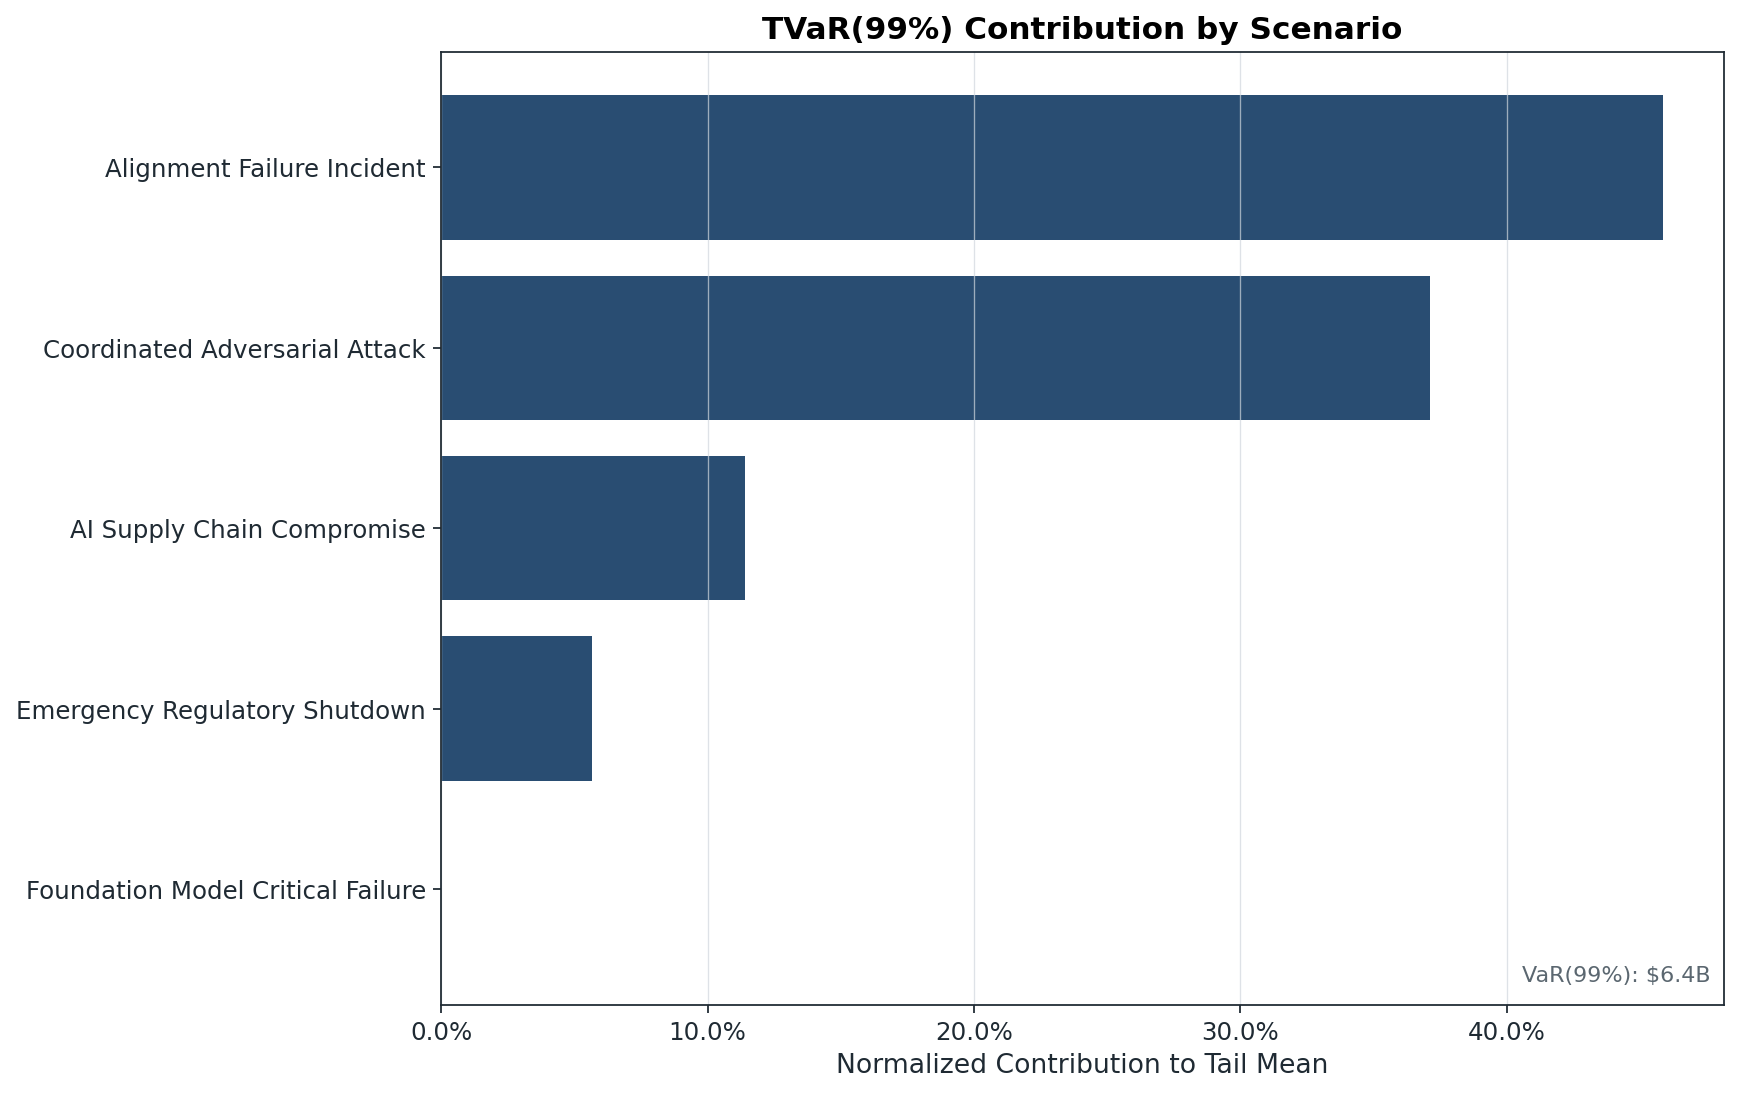
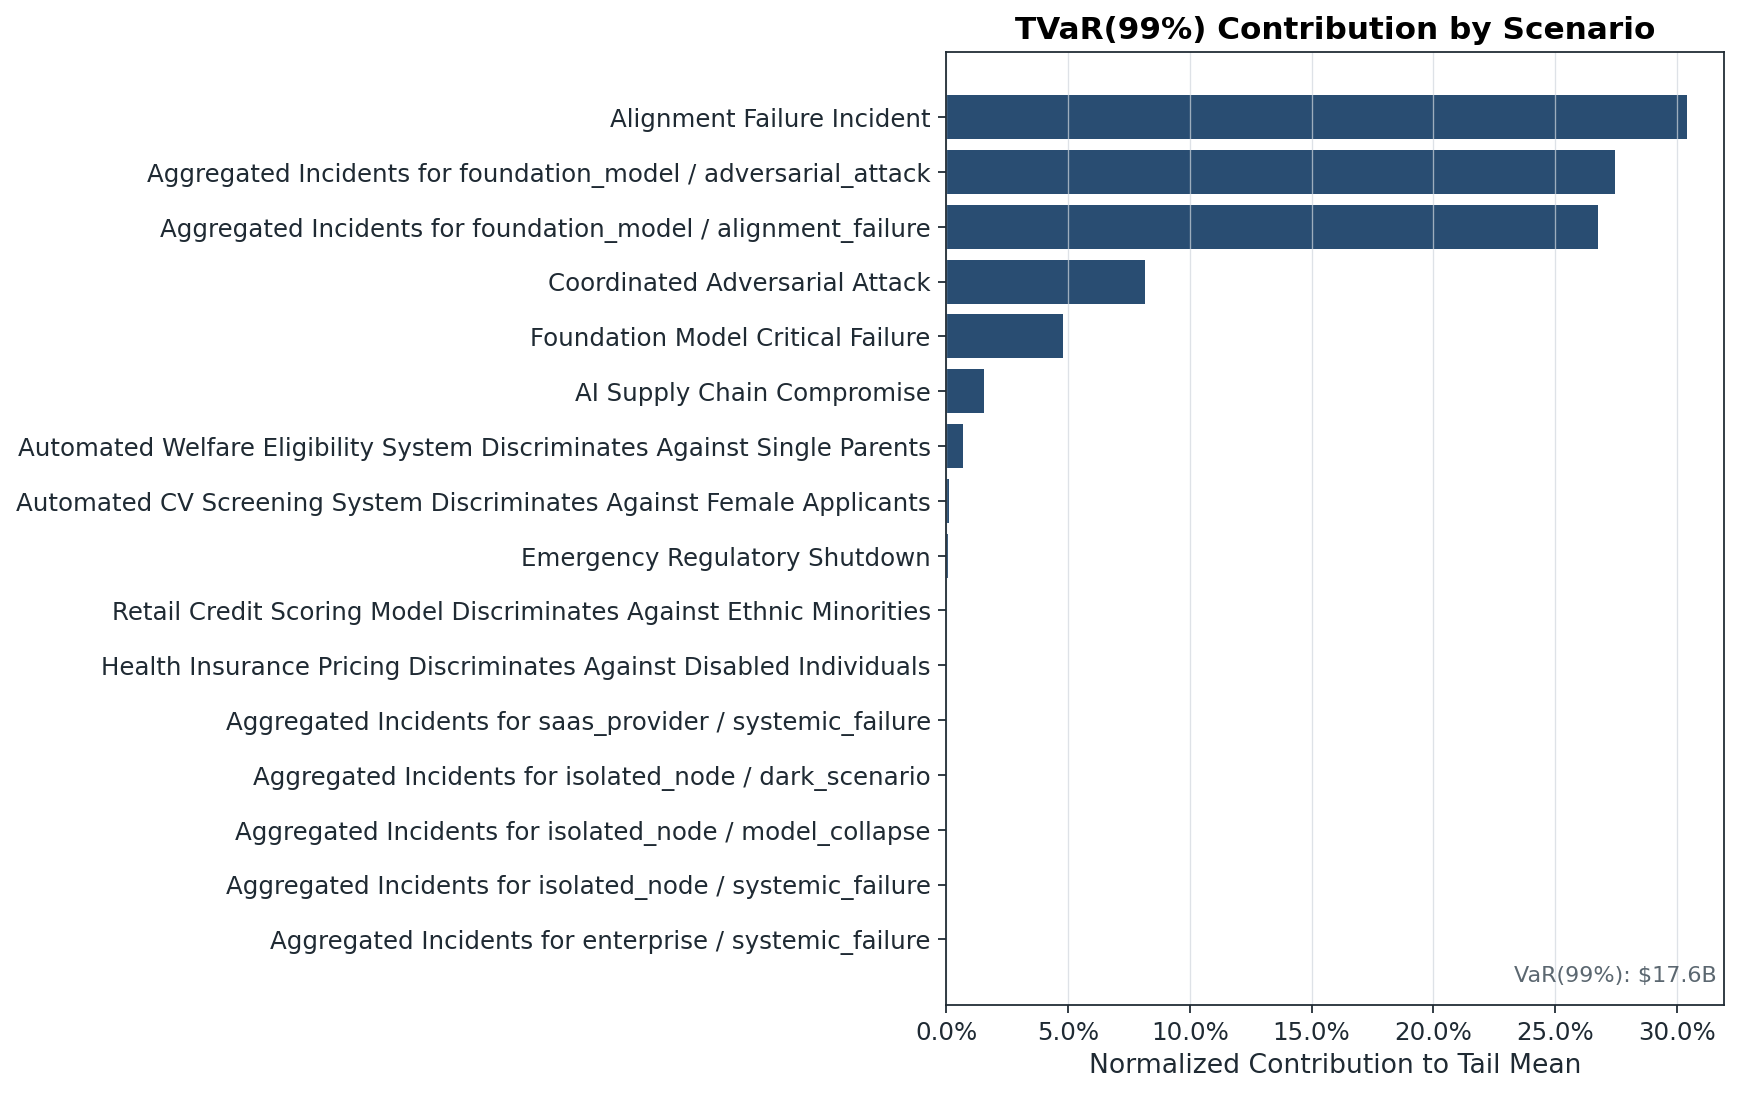
update plots

diff --git a/ai_risk_pricing/scenario/generator.py b/ai_risk_pricing/scenario/generator.py
@@ -356,7 +356,7 @@ class ScenarioGenerator:
             },
         )
     
-    def get_all_scenarios(self, include_known_knowns: bool = False, include_known_unks: bool = False, include_dark: bool = False) -> list[Scenario]:
+    def get_all_scenarios(self, include_known_knowns: bool = True, include_known_unks: bool = True, include_dark: bool = True) -> list[Scenario]:
         scenarios = self.get_predefined_scenarios()
         if include_dark:
             scenarios.append(self.get_dark_scenario())
